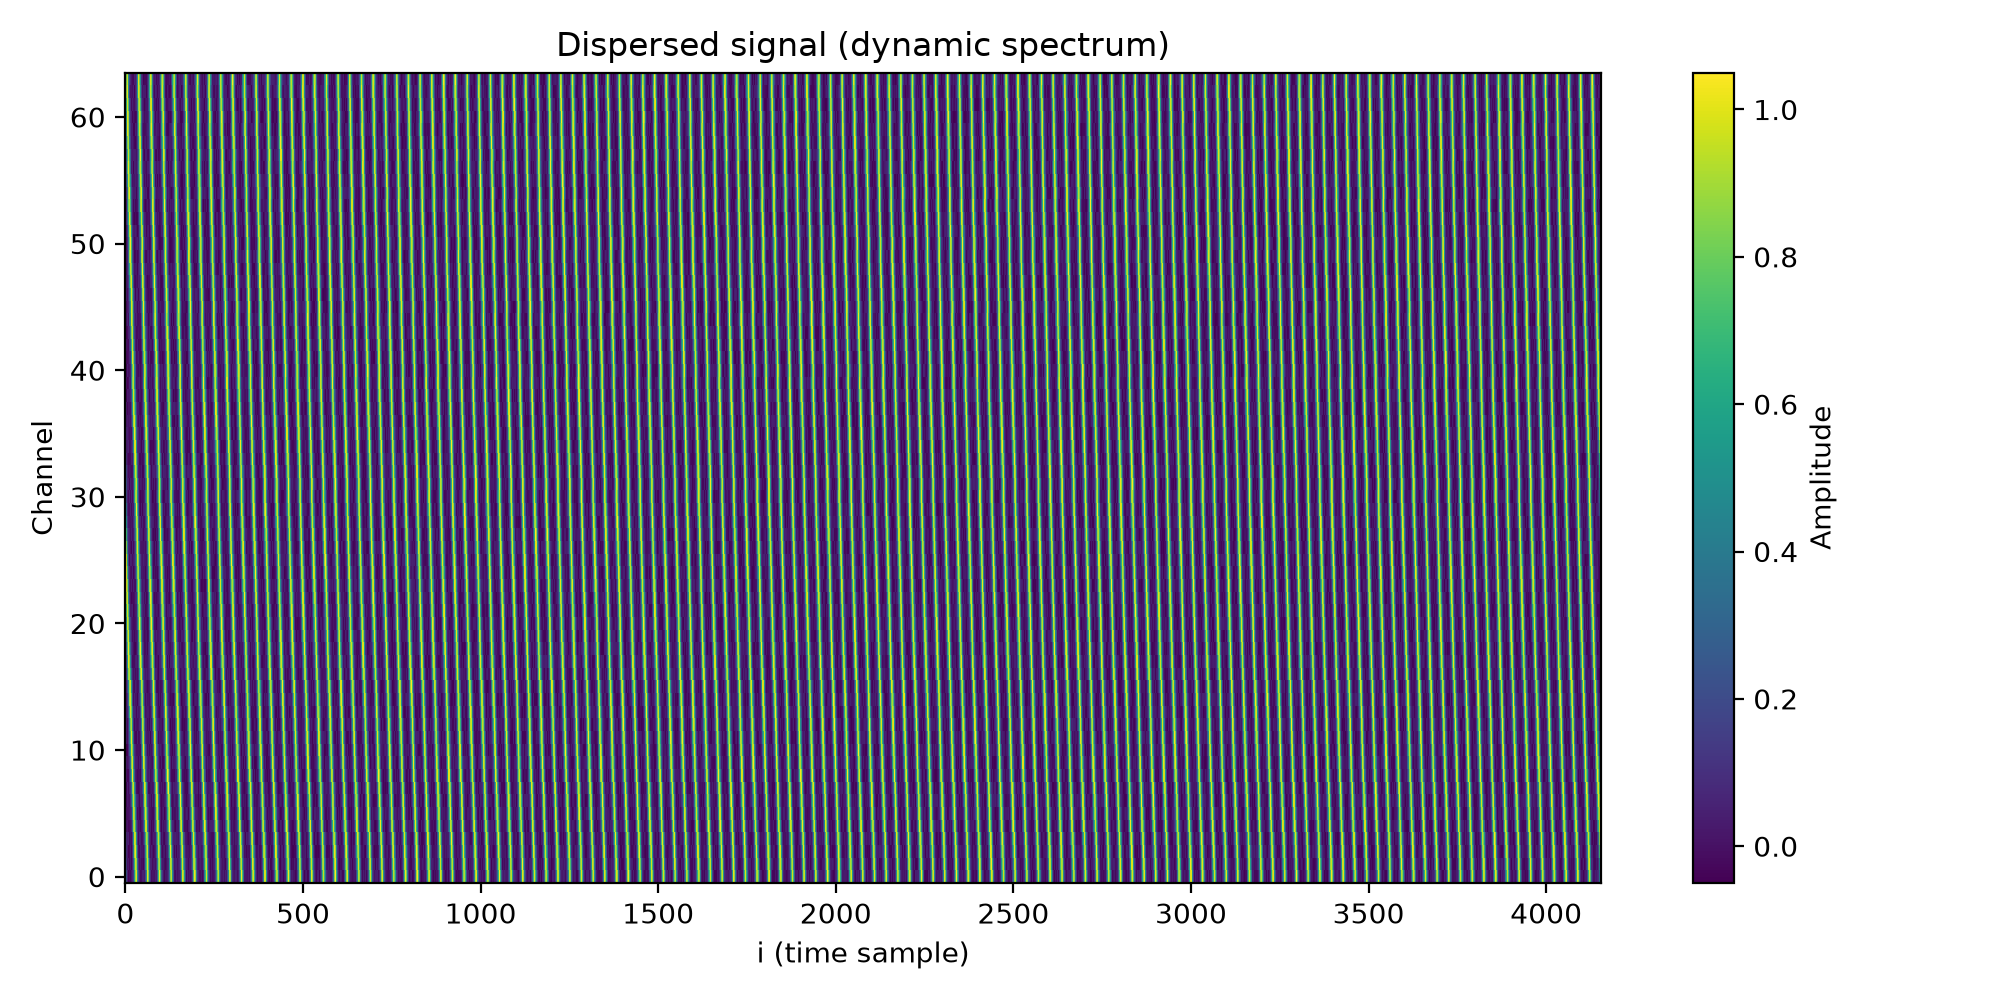
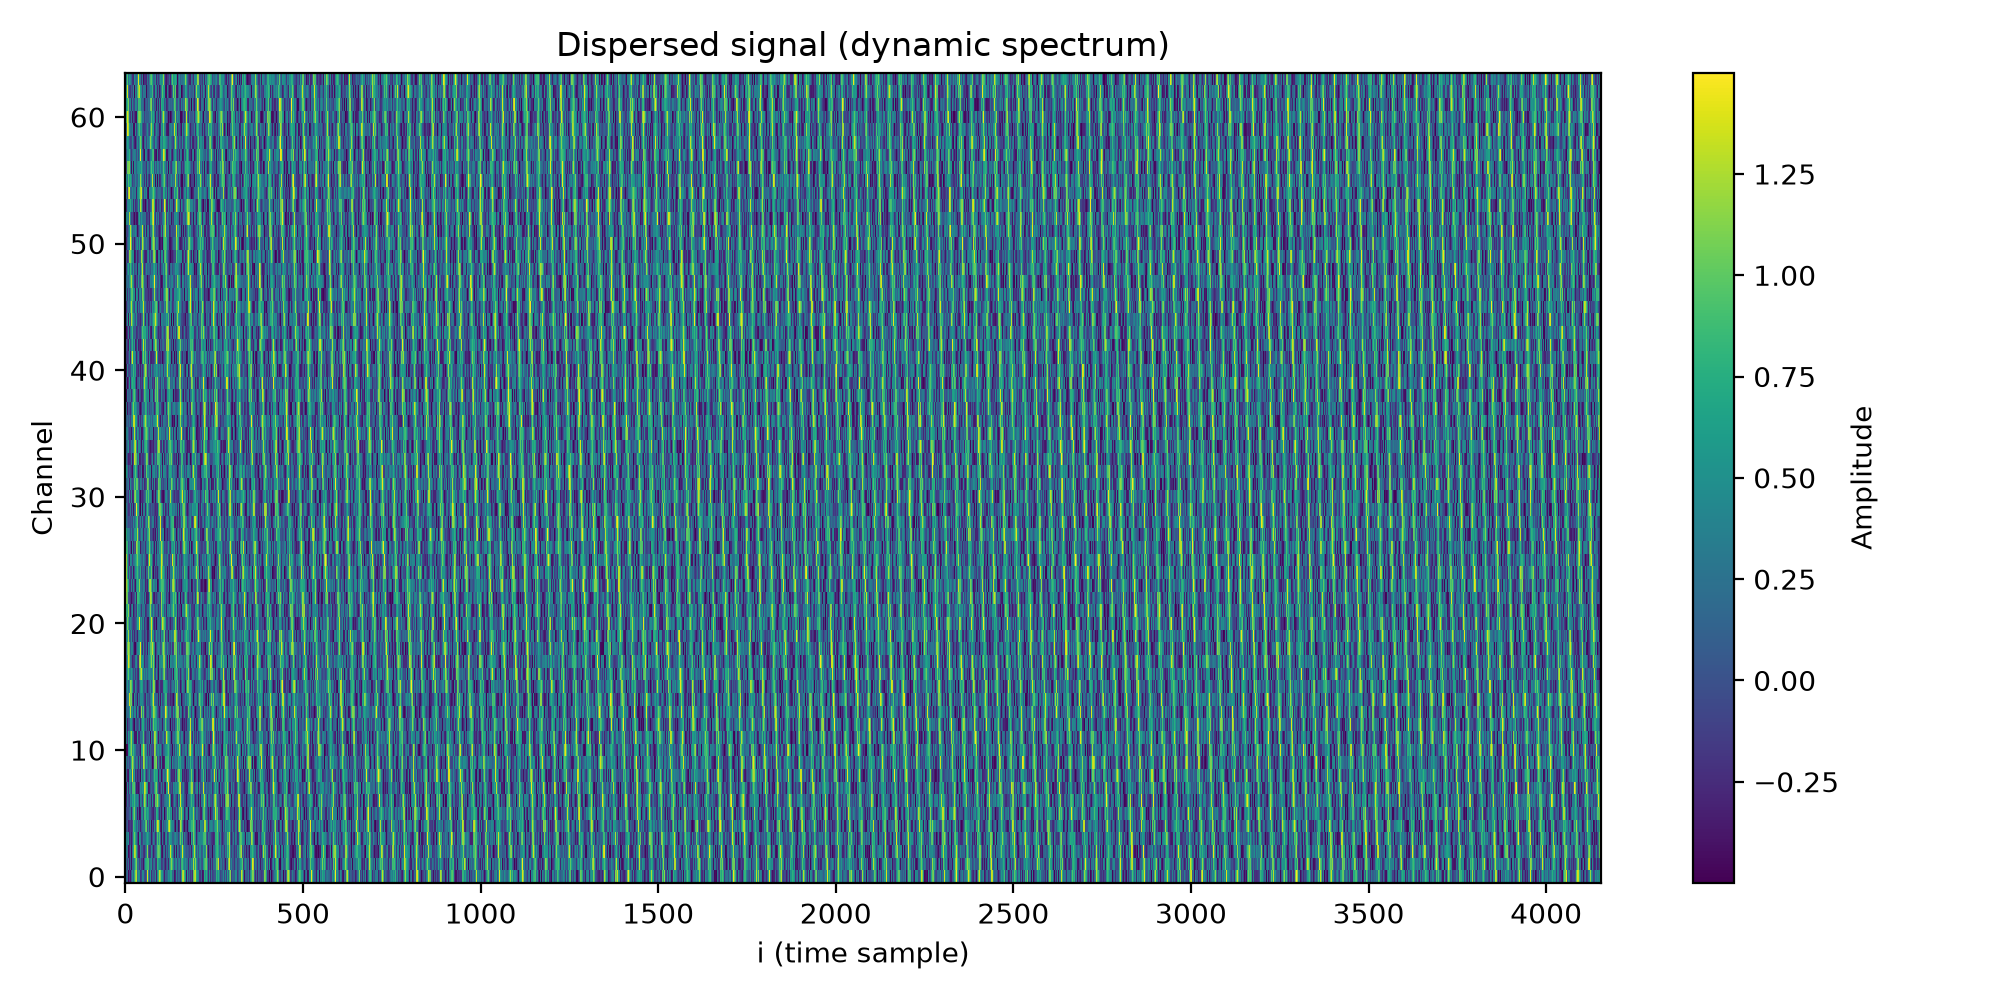
Test a few different values of NOISE_AMPLITUDE + create plot/plot_magnetudes_lin.py

diff --git a/plot/plot_magnetudes_lin.py b/plot/plot_magnetudes_lin.py
@@ -1,0 +1,28 @@
+import os
+import pandas as pd
+import matplotlib.pyplot as plt
+
+# Output folder for the figures (created if missing)
+os.makedirs("result", exist_ok=True)
+
+# Load the DFT spectrum (columns: freq, magnitudes)
+df = pd.read_csv("magnitudes.csv")
+
+fig, ax = plt.subplots(figsize=(10, 4))
+
+# Magnitude as a function of frequency
+ax.plot(df["freq"].iloc[1:], df["magnitudes"].iloc[1:], linewidth=0.8)
+
+# Labels and title
+ax.set_xlabel("Frequency (Hz)")
+ax.set_ylabel("Magnitude")
+ax.set_title("DFT spectrum")
+
+# Light grid to read the harmonics more easily
+ax.grid(True, which="both", alpha=0.3)
+
+fig.tight_layout()   # Avoid clipped labels
+
+# Save before show(), otherwise the saved image can be blank
+fig.savefig("result/dft_spectrum_lin.png", dpi=200)
+plt.show()

diff --git a/config.h b/config.h
@@ -22,7 +22,8 @@
 #define PERIOD          0.033f
 #define PERIOD_INDEX    ((int)(PERIOD / DT + 0.5f))
 
-#define NOISE_AMPLITUDE 0.1f
+// Can work for NOISE_AMPLITUDE up to 100.0f
+#define NOISE_AMPLITUDE 1.0f
 
 #define DELAY_SPAN_S   (K_DM * DM * (1.0f / \
             (F_MIN * F_MIN) - 1.0f / (F_MAX * F_MAX)))

diff --git a/generate.c b/generate.c
@@ -1,4 +1,3 @@
-
 #include <stdio.h>
 #include <stdlib.h>
 #include <math.h>
